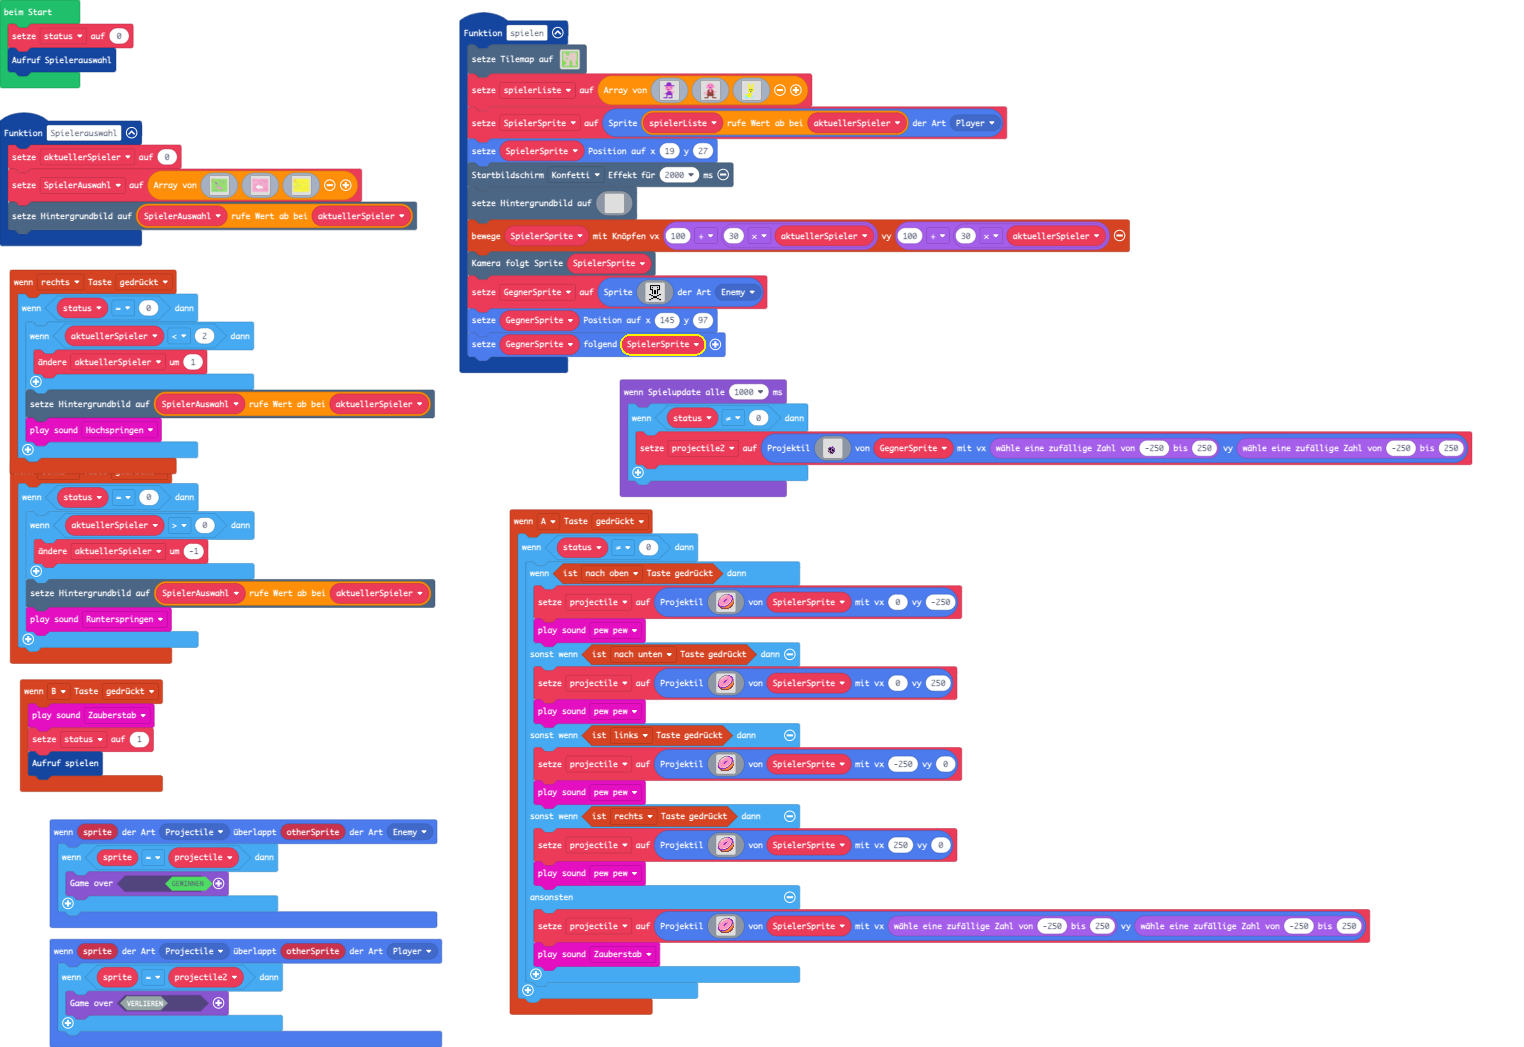
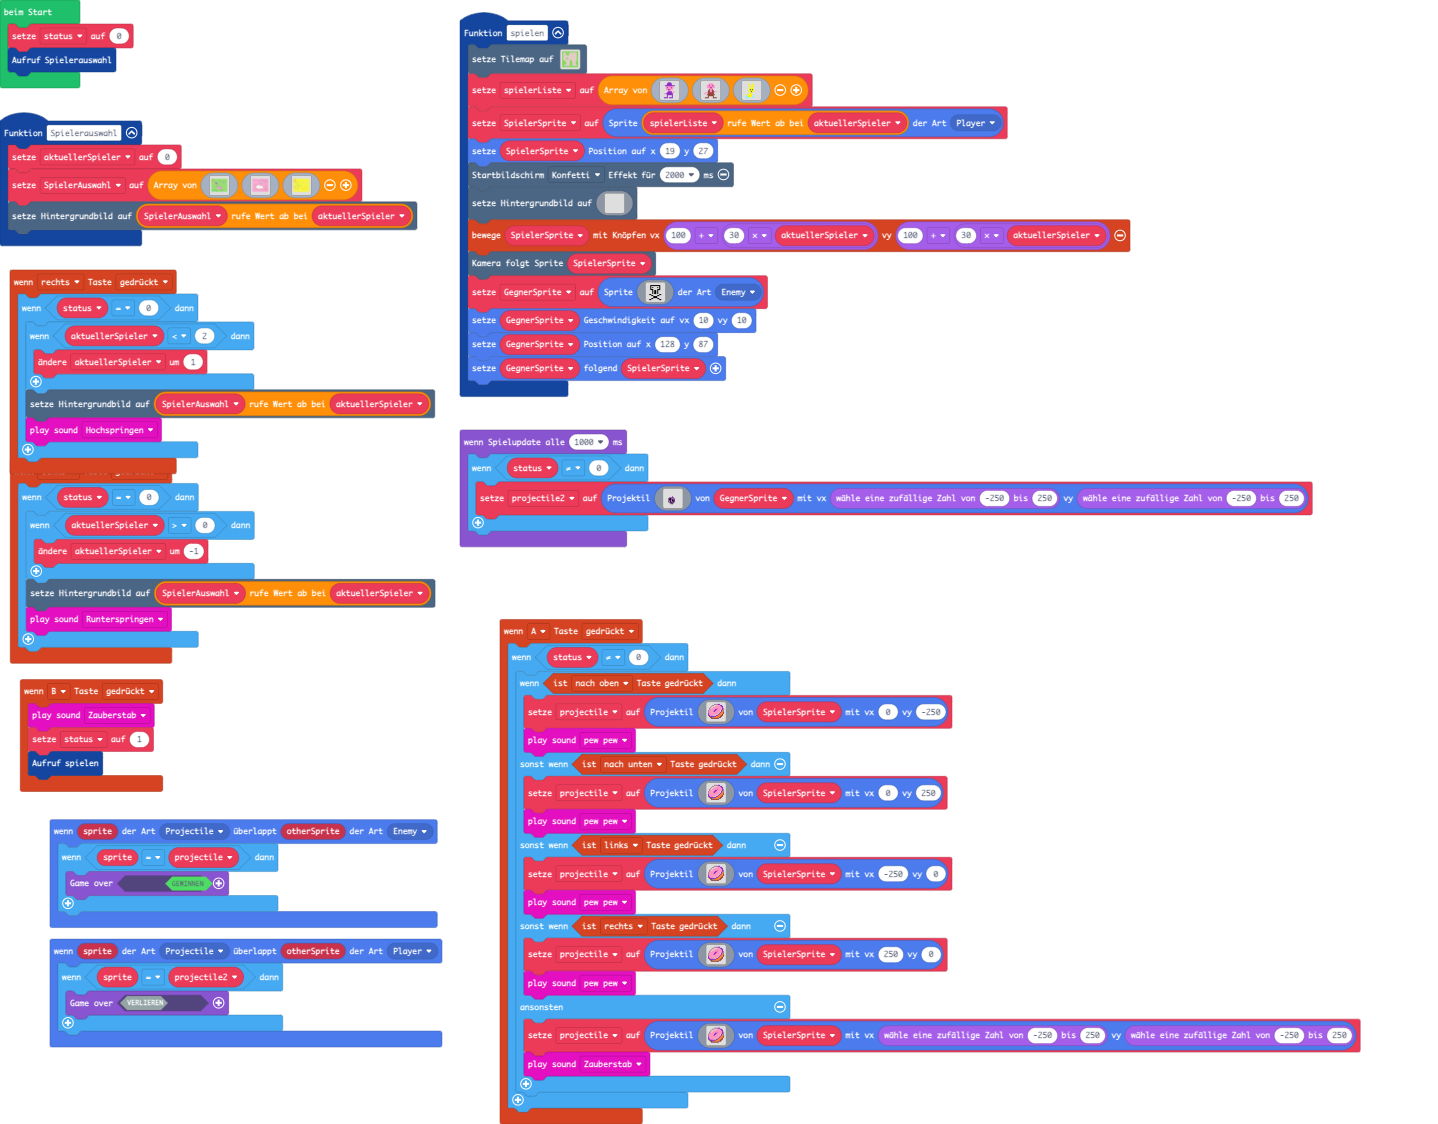
Geschwindigkeit des Gegners geändert

diff --git a/images.g.ts b/images.g.ts
@@ -990,6 +990,276 @@ a a 3 3 3 d d d a a 4 4 4 e e .
 . . . e e e e e e e e . . . . . 
 . . . . . . . . . . . . . . . . 
 `;
+            case "image31":return img`
+. . . . . . b b b b a a . . . . 
+. . . . b b d d d 3 3 3 a a . . 
+. . . b d d d 3 3 3 3 3 3 a a . 
+. . b d d 3 3 3 3 3 3 3 3 3 a . 
+. b 3 d 3 3 3 3 3 b 3 3 3 3 a b 
+. b 3 3 3 3 3 a a 3 3 3 3 3 a b 
+b 3 3 3 3 3 a a 3 3 3 3 d a 4 b 
+b 3 3 3 3 b a 3 3 3 3 3 d a 4 b 
+b 3 3 3 3 3 3 3 3 3 3 d a 4 4 e 
+a 3 3 3 3 3 3 3 3 3 d a 4 4 4 e 
+a 3 3 3 3 3 3 3 d d a 4 4 4 e . 
+a a 3 3 3 d d d a a 4 4 4 e e . 
+. e a a a a a a 4 4 4 4 e e . . 
+. . e e b b 4 4 4 4 b e e . . . 
+. . . e e e e e e e e . . . . . 
+. . . . . . . . . . . . . . . . 
+`;
+            case "image32":return img`
+. . . . . . b b b b a a . . . . 
+. . . . b b d d d 3 3 3 a a . . 
+. . . b d d d 3 3 3 3 3 3 a a . 
+. . b d d 3 3 3 3 3 3 3 3 3 a . 
+. b 3 d 3 3 3 3 3 b 3 3 3 3 a b 
+. b 3 3 3 3 3 a a 3 3 3 3 3 a b 
+b 3 3 3 3 3 a a 3 3 3 3 d a 4 b 
+b 3 3 3 3 b a 3 3 3 3 3 d a 4 b 
+b 3 3 3 3 3 3 3 3 3 3 d a 4 4 e 
+a 3 3 3 3 3 3 3 3 3 d a 4 4 4 e 
+a 3 3 3 3 3 3 3 d d a 4 4 4 e . 
+a a 3 3 3 d d d a a 4 4 4 e e . 
+. e a a a a a a 4 4 4 4 e e . . 
+. . e e b b 4 4 4 4 b e e . . . 
+. . . e e e e e e e e . . . . . 
+. . . . . . . . . . . . . . . . 
+`;
+            case "image33":return img`
+. . . . . . b b b b a a . . . . 
+. . . . b b d d d 3 3 3 a a . . 
+. . . b d d d 3 3 3 3 3 3 a a . 
+. . b d d 3 3 3 3 3 3 3 3 3 a . 
+. b 3 d 3 3 3 3 3 b 3 3 3 3 a b 
+. b 3 3 3 3 3 a a 3 3 3 3 3 a b 
+b 3 3 3 3 3 a a 3 3 3 3 d a 4 b 
+b 3 3 3 3 b a 3 3 3 3 3 d a 4 b 
+b 3 3 3 3 3 3 3 3 3 3 d a 4 4 e 
+a 3 3 3 3 3 3 3 3 3 d a 4 4 4 e 
+a 3 3 3 3 3 3 3 d d a 4 4 4 e . 
+a a 3 3 3 d d d a a 4 4 4 e e . 
+. e a a a a a a 4 4 4 4 e e . . 
+. . e e b b 4 4 4 4 b e e . . . 
+. . . e e e e e e e e . . . . . 
+. . . . . . . . . . . . . . . . 
+`;
+            case "image34":return img`
+. . . . . . b b b b a a . . . . 
+. . . . b b d d d 3 3 3 a a . . 
+. . . b d d d 3 3 3 3 3 3 a a . 
+. . b d d 3 3 3 3 3 3 3 3 3 a . 
+. b 3 d 3 3 3 3 3 b 3 3 3 3 a b 
+. b 3 3 3 3 3 a a 3 3 3 3 3 a b 
+b 3 3 3 3 3 a a 3 3 3 3 d a 4 b 
+b 3 3 3 3 b a 3 3 3 3 3 d a 4 b 
+b 3 3 3 3 3 3 3 3 3 3 d a 4 4 e 
+a 3 3 3 3 3 3 3 3 3 d a 4 4 4 e 
+a 3 3 3 3 3 3 3 d d a 4 4 4 e . 
+a a 3 3 3 d d d a a 4 4 4 e e . 
+. e a a a a a a 4 4 4 4 e e . . 
+. . e e b b 4 4 4 4 b e e . . . 
+. . . e e e e e e e e . . . . . 
+. . . . . . . . . . . . . . . . 
+`;
+            case "image35":return img`
+. . . . . . b b b b a a . . . . 
+. . . . b b d d d 3 3 3 a a . . 
+. . . b d d d 3 3 3 3 3 3 a a . 
+. . b d d 3 3 3 3 3 3 3 3 3 a . 
+. b 3 d 3 3 3 3 3 b 3 3 3 3 a b 
+. b 3 3 3 3 3 a a 3 3 3 3 3 a b 
+b 3 3 3 3 3 a a 3 3 3 3 d a 4 b 
+b 3 3 3 3 b a 3 3 3 3 3 d a 4 b 
+b 3 3 3 3 3 3 3 3 3 3 d a 4 4 e 
+a 3 3 3 3 3 3 3 3 3 d a 4 4 4 e 
+a 3 3 3 3 3 3 3 d d a 4 4 4 e . 
+a a 3 3 3 d d d a a 4 4 4 e e . 
+. e a a a a a a 4 4 4 4 e e . . 
+. . e e b b 4 4 4 4 b e e . . . 
+. . . e e e e e e e e . . . . . 
+. . . . . . . . . . . . . . . . 
+`;
+            case "image36":return img`
+. . . . . . b b b b a a . . . . 
+. . . . b b d d d 3 3 3 a a . . 
+. . . b d d d 3 3 3 3 3 3 a a . 
+. . b d d 3 3 3 3 3 3 3 3 3 a . 
+. b 3 d 3 3 3 3 3 b 3 3 3 3 a b 
+. b 3 3 3 3 3 a a 3 3 3 3 3 a b 
+b 3 3 3 3 3 a a 3 3 3 3 d a 4 b 
+b 3 3 3 3 b a 3 3 3 3 3 d a 4 b 
+b 3 3 3 3 3 3 3 3 3 3 d a 4 4 e 
+a 3 3 3 3 3 3 3 3 3 d a 4 4 4 e 
+a 3 3 3 3 3 3 3 d d a 4 4 4 e . 
+a a 3 3 3 d d d a a 4 4 4 e e . 
+. e a a a a a a 4 4 4 4 e e . . 
+. . e e b b 4 4 4 4 b e e . . . 
+. . . e e e e e e e e . . . . . 
+. . . . . . . . . . . . . . . . 
+`;
+            case "image37":return img`
+. . . . . . b b b b a a . . . . 
+. . . . b b d d d 3 3 3 a a . . 
+. . . b d d d 3 3 3 3 3 3 a a . 
+. . b d d 3 3 3 3 3 3 3 3 3 a . 
+. b 3 d 3 3 3 3 3 b 3 3 3 3 a b 
+. b 3 3 3 3 3 a a 3 3 3 3 3 a b 
+b 3 3 3 3 3 a a 3 3 3 3 d a 4 b 
+b 3 3 3 3 b a 3 3 3 3 3 d a 4 b 
+b 3 3 3 3 3 3 3 3 3 3 d a 4 4 e 
+a 3 3 3 3 3 3 3 3 3 d a 4 4 4 e 
+a 3 3 3 3 3 3 3 d d a 4 4 4 e . 
+a a 3 3 3 d d d a a 4 4 4 e e . 
+. e a a a a a a 4 4 4 4 e e . . 
+. . e e b b 4 4 4 4 b e e . . . 
+. . . e e e e e e e e . . . . . 
+. . . . . . . . . . . . . . . . 
+`;
+            case "image38":return img`
+. . . . . . b b b b a a . . . . 
+. . . . b b d d d 3 3 3 a a . . 
+. . . b d d d 3 3 3 3 3 3 a a . 
+. . b d d 3 3 3 3 3 3 3 3 3 a . 
+. b 3 d 3 3 3 3 3 b 3 3 3 3 a b 
+. b 3 3 3 3 3 a a 3 3 3 3 3 a b 
+b 3 3 3 3 3 a a 3 3 3 3 d a 4 b 
+b 3 3 3 3 b a 3 3 3 3 3 d a 4 b 
+b 3 3 3 3 3 3 3 3 3 3 d a 4 4 e 
+a 3 3 3 3 3 3 3 3 3 d a 4 4 4 e 
+a 3 3 3 3 3 3 3 d d a 4 4 4 e . 
+a a 3 3 3 d d d a a 4 4 4 e e . 
+. e a a a a a a 4 4 4 4 e e . . 
+. . e e b b 4 4 4 4 b e e . . . 
+. . . e e e e e e e e . . . . . 
+. . . . . . . . . . . . . . . . 
+`;
+            case "image39":return img`
+. . . . . . b b b b a a . . . . 
+. . . . b b d d d 3 3 3 a a . . 
+. . . b d d d 3 3 3 3 3 3 a a . 
+. . b d d 3 3 3 3 3 3 3 3 3 a . 
+. b 3 d 3 3 3 3 3 b 3 3 3 3 a b 
+. b 3 3 3 3 3 a a 3 3 3 3 3 a b 
+b 3 3 3 3 3 a a 3 3 3 3 d a 4 b 
+b 3 3 3 3 b a 3 3 3 3 3 d a 4 b 
+b 3 3 3 3 3 3 3 3 3 3 d a 4 4 e 
+a 3 3 3 3 3 3 3 3 3 d a 4 4 4 e 
+a 3 3 3 3 3 3 3 d d a 4 4 4 e . 
+a a 3 3 3 d d d a a 4 4 4 e e . 
+. e a a a a a a 4 4 4 4 e e . . 
+. . e e b b 4 4 4 4 b e e . . . 
+. . . e e e e e e e e . . . . . 
+. . . . . . . . . . . . . . . . 
+`;
+            case "image40":return img`
+. . . . . . b b b b a a . . . . 
+. . . . b b d d d 3 3 3 a a . . 
+. . . b d d d 3 3 3 3 3 3 a a . 
+. . b d d 3 3 3 3 3 3 3 3 3 a . 
+. b 3 d 3 3 3 3 3 b 3 3 3 3 a b 
+. b 3 3 3 3 3 a a 3 3 3 3 3 a b 
+b 3 3 3 3 3 a a 3 3 3 3 d a 4 b 
+b 3 3 3 3 b a 3 3 3 3 3 d a 4 b 
+b 3 3 3 3 3 3 3 3 3 3 d a 4 4 e 
+a 3 3 3 3 3 3 3 3 3 d a 4 4 4 e 
+a 3 3 3 3 3 3 3 d d a 4 4 4 e . 
+a a 3 3 3 d d d a a 4 4 4 e e . 
+. e a a a a a a 4 4 4 4 e e . . 
+. . e e b b 4 4 4 4 b e e . . . 
+. . . e e e e e e e e . . . . . 
+. . . . . . . . . . . . . . . . 
+`;
+            case "image41":return img`
+. . . . . . b b b b a a . . . . 
+. . . . b b d d d 3 3 3 a a . . 
+. . . b d d d 3 3 3 3 3 3 a a . 
+. . b d d 3 3 3 3 3 3 3 3 3 a . 
+. b 3 d 3 3 3 3 3 b 3 3 3 3 a b 
+. b 3 3 3 3 3 a a 3 3 3 3 3 a b 
+b 3 3 3 3 3 a a 3 3 3 3 d a 4 b 
+b 3 3 3 3 b a 3 3 3 3 3 d a 4 b 
+b 3 3 3 3 3 3 3 3 3 3 d a 4 4 e 
+a 3 3 3 3 3 3 3 3 3 d a 4 4 4 e 
+a 3 3 3 3 3 3 3 d d a 4 4 4 e . 
+a a 3 3 3 d d d a a 4 4 4 e e . 
+. e a a a a a a 4 4 4 4 e e . . 
+. . e e b b 4 4 4 4 b e e . . . 
+. . . e e e e e e e e . . . . . 
+. . . . . . . . . . . . . . . . 
+`;
+            case "image42":return img`
+. . . . . . b b b b a a . . . . 
+. . . . b b d d d 3 3 3 a a . . 
+. . . b d d d 3 3 3 3 3 3 a a . 
+. . b d d 3 3 3 3 3 3 3 3 3 a . 
+. b 3 d 3 3 3 3 3 b 3 3 3 3 a b 
+. b 3 3 3 3 3 a a 3 3 3 3 3 a b 
+b 3 3 3 3 3 a a 3 3 3 3 d a 4 b 
+b 3 3 3 3 b a 3 3 3 3 3 d a 4 b 
+b 3 3 3 3 3 3 3 3 3 3 d a 4 4 e 
+a 3 3 3 3 3 3 3 3 3 d a 4 4 4 e 
+a 3 3 3 3 3 3 3 d d a 4 4 4 e . 
+a a 3 3 3 d d d a a 4 4 4 e e . 
+. e a a a a a a 4 4 4 4 e e . . 
+. . e e b b 4 4 4 4 b e e . . . 
+. . . e e e e e e e e . . . . . 
+. . . . . . . . . . . . . . . . 
+`;
+            case "image43":return img`
+. . . . . . b b b b a a . . . . 
+. . . . b b d d d 3 3 3 a a . . 
+. . . b d d d 3 3 3 3 3 3 a a . 
+. . b d d 3 3 3 3 3 3 3 3 3 a . 
+. b 3 d 3 3 3 3 3 b 3 3 3 3 a b 
+. b 3 3 3 3 3 a a 3 3 3 3 3 a b 
+b 3 3 3 3 3 a a 3 3 3 3 d a 4 b 
+b 3 3 3 3 b a 3 3 3 3 3 d a 4 b 
+b 3 3 3 3 3 3 3 3 3 3 d a 4 4 e 
+a 3 3 3 3 3 3 3 3 3 d a 4 4 4 e 
+a 3 3 3 3 3 3 3 d d a 4 4 4 e . 
+a a 3 3 3 d d d a a 4 4 4 e e . 
+. e a a a a a a 4 4 4 4 e e . . 
+. . e e b b 4 4 4 4 b e e . . . 
+. . . e e e e e e e e . . . . . 
+. . . . . . . . . . . . . . . . 
+`;
+            case "image44":return img`
+. . . . . . b b b b a a . . . . 
+. . . . b b d d d 3 3 3 a a . . 
+. . . b d d d 3 3 3 3 3 3 a a . 
+. . b d d 3 3 3 3 3 3 3 3 3 a . 
+. b 3 d 3 3 3 3 3 b 3 3 3 3 a b 
+. b 3 3 3 3 3 a a 3 3 3 3 3 a b 
+b 3 3 3 3 3 a a 3 3 3 3 d a 4 b 
+b 3 3 3 3 b a 3 3 3 3 3 d a 4 b 
+b 3 3 3 3 3 3 3 3 3 3 d a 4 4 e 
+a 3 3 3 3 3 3 3 3 3 d a 4 4 4 e 
+a 3 3 3 3 3 3 3 d d a 4 4 4 e . 
+a a 3 3 3 d d d a a 4 4 4 e e . 
+. e a a a a a a 4 4 4 4 e e . . 
+. . e e b b 4 4 4 4 b e e . . . 
+. . . e e e e e e e e . . . . . 
+. . . . . . . . . . . . . . . . 
+`;
+            case "image45":return img`
+. . . . . . b b b b a a . . . . 
+. . . . b b d d d 3 3 3 a a . . 
+. . . b d d d 3 3 3 3 3 3 a a . 
+. . b d d 3 3 3 3 3 3 3 3 3 a . 
+. b 3 d 3 3 3 3 3 b 3 3 3 3 a b 
+. b 3 3 3 3 3 a a 3 3 3 3 3 a b 
+b 3 3 3 3 3 a a 3 3 3 3 d a 4 b 
+b 3 3 3 3 b a 3 3 3 3 3 d a 4 b 
+b 3 3 3 3 3 3 3 3 3 3 d a 4 4 e 
+a 3 3 3 3 3 3 3 3 3 d a 4 4 4 e 
+a 3 3 3 3 3 3 3 d d a 4 4 4 e . 
+a a 3 3 3 d d d a a 4 4 4 e e . 
+. e a a a a a a 4 4 4 4 e e . . 
+. . e e b b 4 4 4 4 b e e . . . 
+. . . e e e e e e e e . . . . . 
+. . . . . . . . . . . . . . . . 
+`;
         }
         return null;
     })

diff --git a/main.ts b/main.ts
@@ -262,7 +262,8 @@ function spielen () {
     controller.moveSprite(SpielerSprite, 100 + 30 * aktuellerSpieler, 100 + 30 * aktuellerSpieler)
     scene.cameraFollowSprite(SpielerSprite)
     GegnerSprite = sprites.create(assets.image`totenkopf`, SpriteKind.Enemy)
-    GegnerSprite.setPosition(145, 97)
+    GegnerSprite.setVelocity(10, 10)
+    GegnerSprite.setPosition(128, 87)
     GegnerSprite.follow(SpielerSprite)
 }
 controller.B.onEvent(ControllerButtonEvent.Pressed, function () {
